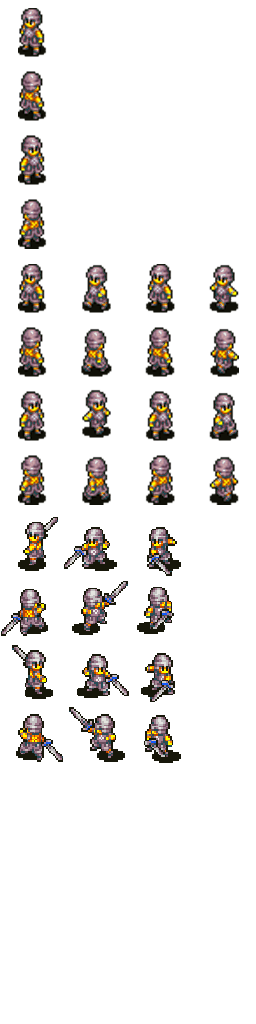
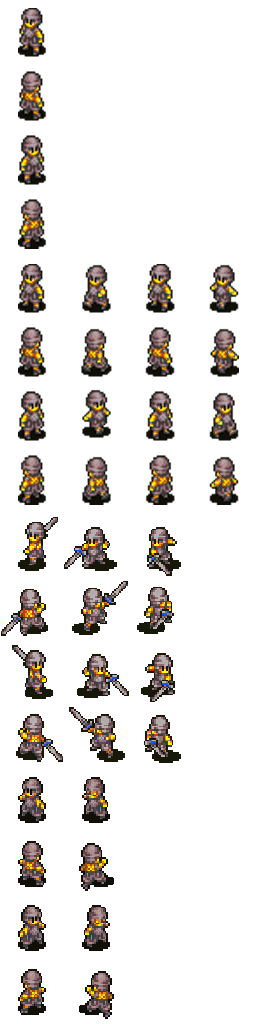
added sprites/knights added end screen

diff --git a/index.html b/index.html
@@ -46,7 +46,6 @@
     <script src="js/panels/statsPanel.js"></script>
     <!-- Panels End  -->
 	<!-- Screens     -->
-    <script src="js/screens/dialog.js"></script>
     <script src="js/screens/main.js"></script>
     <script src="js/screens/help.js"></script>
     <script src="js/screens/end.js"></script>
@@ -55,6 +54,7 @@
     <script src="js/units/commander.js"></script>
     <script src="js/units/soldier.js"></script>
     <script src="js/units/archer.js"></script>
+    <script src="js/units/knight.js"></script>    
     <!-- Units   End -->
     <script src="js/weapon.js"></script>
     <script src="js/game.js"></script>
